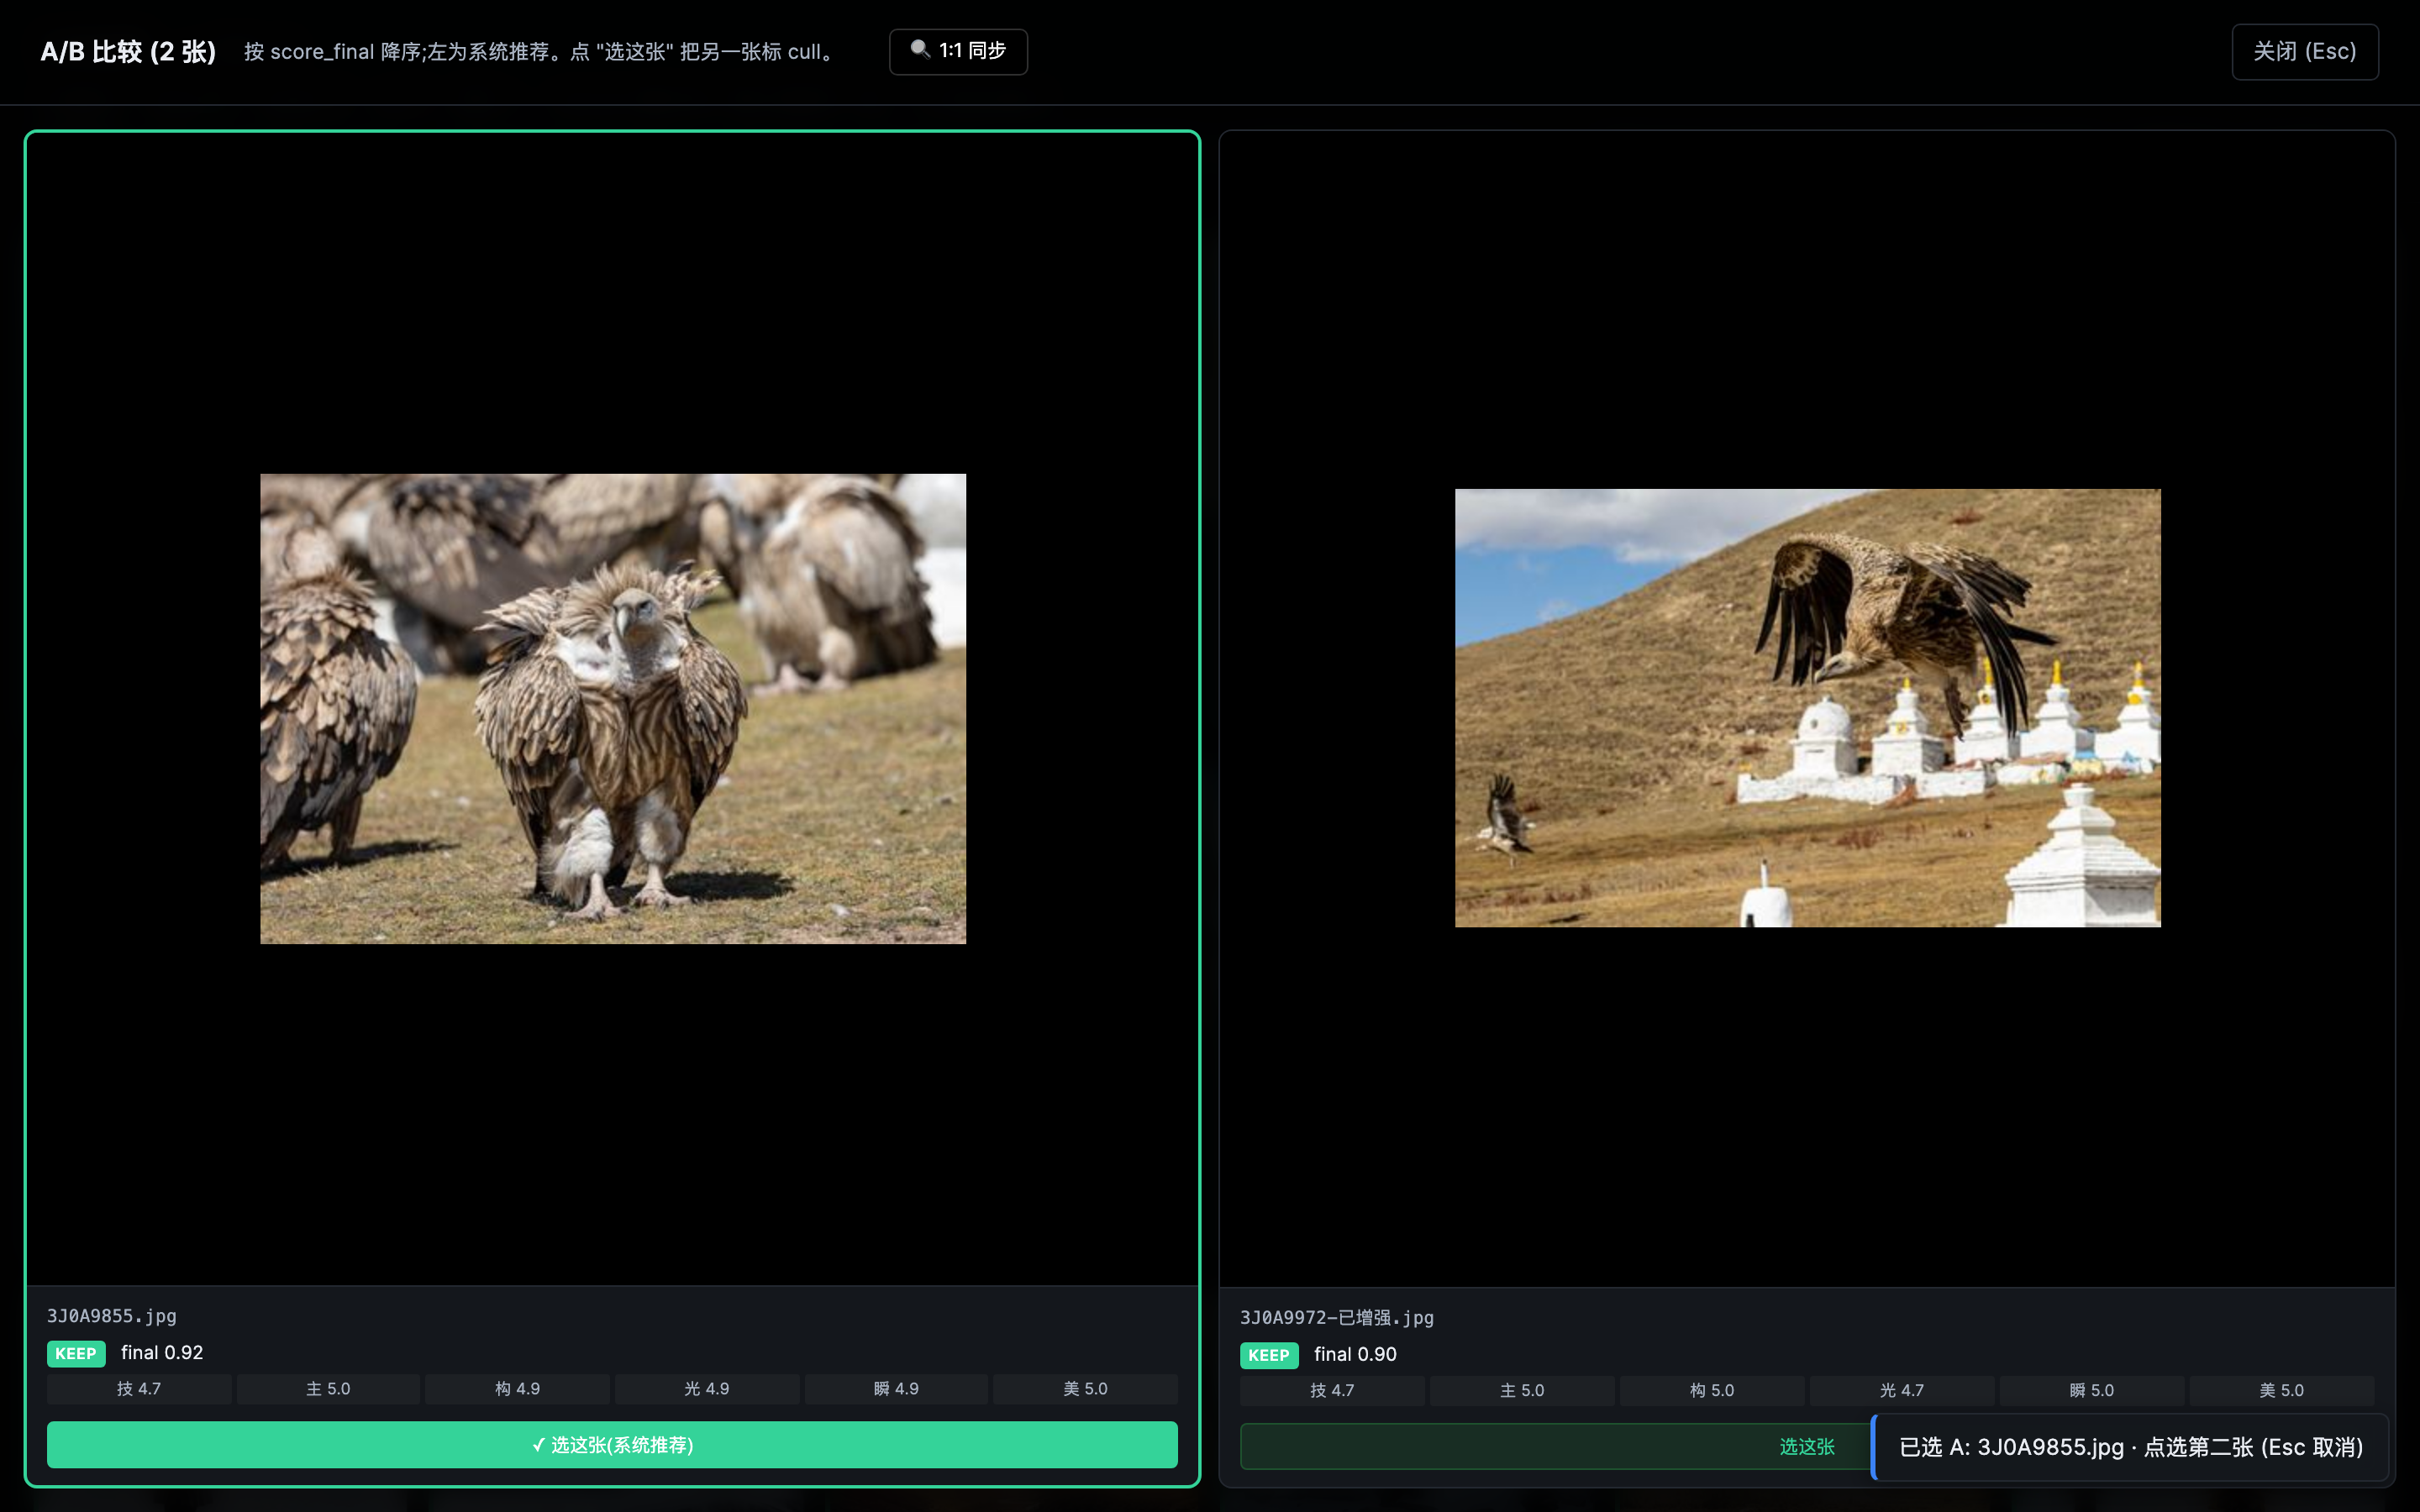
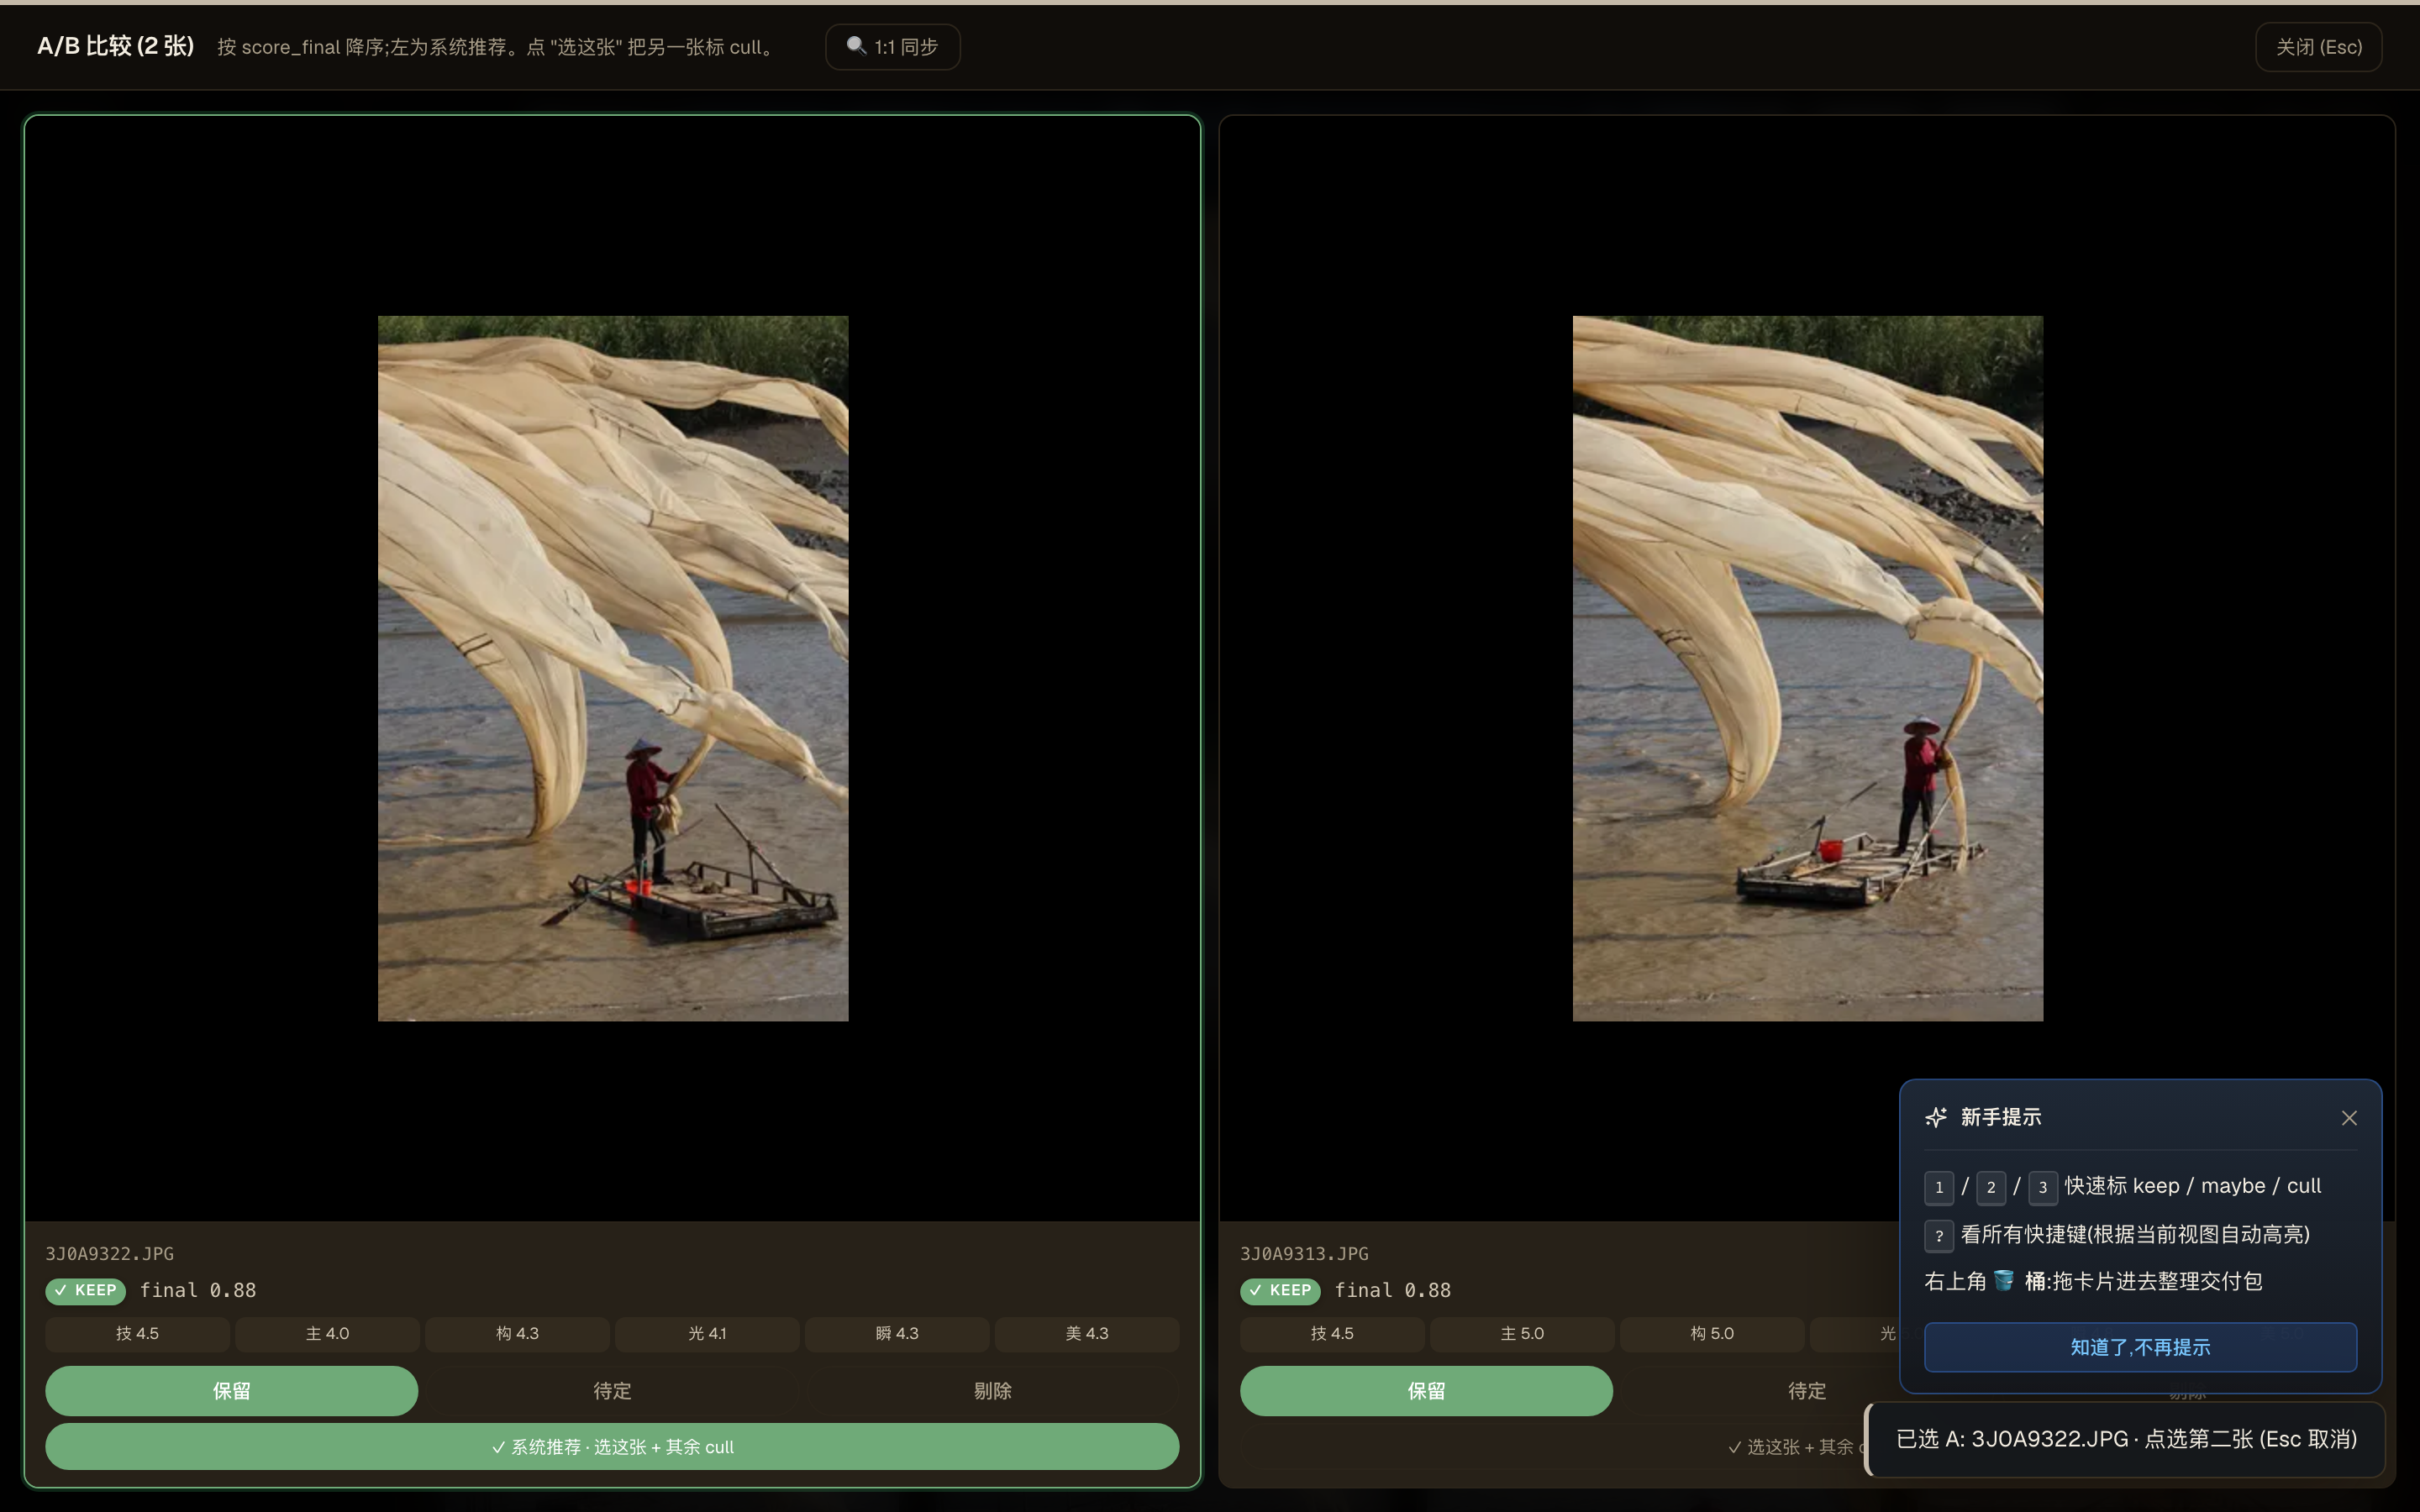
v2.3 gallery: 04-ab-compare on the new design — gallery 100% complete
Last straggler.  Drove the real UI (hover + force-click two cards'
.card-cmp-btn → pinForCompare A→B → openCompareCustom, page-scope so the
closure-local fn resolves) — page.evaluate couldn't reach it.  Shows the
A/B compare modal with two real Xiapu frames (scores + 6-axis + pickers)
on the editorial-warm design.

All 19 gallery screenshots (01–19) are now on the v2.3 editorial-warm +
Geist + Double-Bezel design.  PNG-only; owner-approved Xiapu data.

diff --git a/docs/ROADMAP-v2.3-ui-charter.md b/docs/ROADMAP-v2.3-ui-charter.md
@@ -128,13 +128,17 @@ content-guard + retry + skip-on-fail against one pre-warmed server**
   full-page) → 2560×3200 ~5MB.  The share page keeps its distinct
   (now-brass) brand gradient by design.
 
-**TODO — the ONE remaining shot (niche, low value):**
-- **04 ab-compare** — the A/B compare modal needs a multi-photo *burst*
-  cluster (this run has 198 single-frame clusters) and `openCompareCustom`
-  is closure-local (not on `window`, so `page.evaluate` can't call it).
-  Stays pre-overhaul until a run with real bursts exists — minor.
-- Optional deeper P2 (low value): per-thumbnail skeleton; `text-wrap:
-  balance` on headings.
+- **04 ab-compare** — DONE.  Solved the closure-fn problem by driving
+  the real UI: hover + `force`-click two cards' `.card-cmp-btn`
+  (`pinForCompare` A→B → `openCompareCustom`, which runs in page scope so
+  the closure resolves).  Shows the A/B modal with two real Xiapu frames
+  on the warm design.
+
+**All 19 gallery screenshots (01–19) are now on the editorial-warm +
+Geist + Double-Bezel design and synced to GitHub + ModelScope.**
+
+Optional deeper P2 (low value, skip unless asked): per-thumbnail
+skeleton; `text-wrap: balance` on headings.
 
 **Caveats for the next session:**
 - `tests/test_5k_scale.py::test_5k_scale_parse_under_2_seconds` is a pure